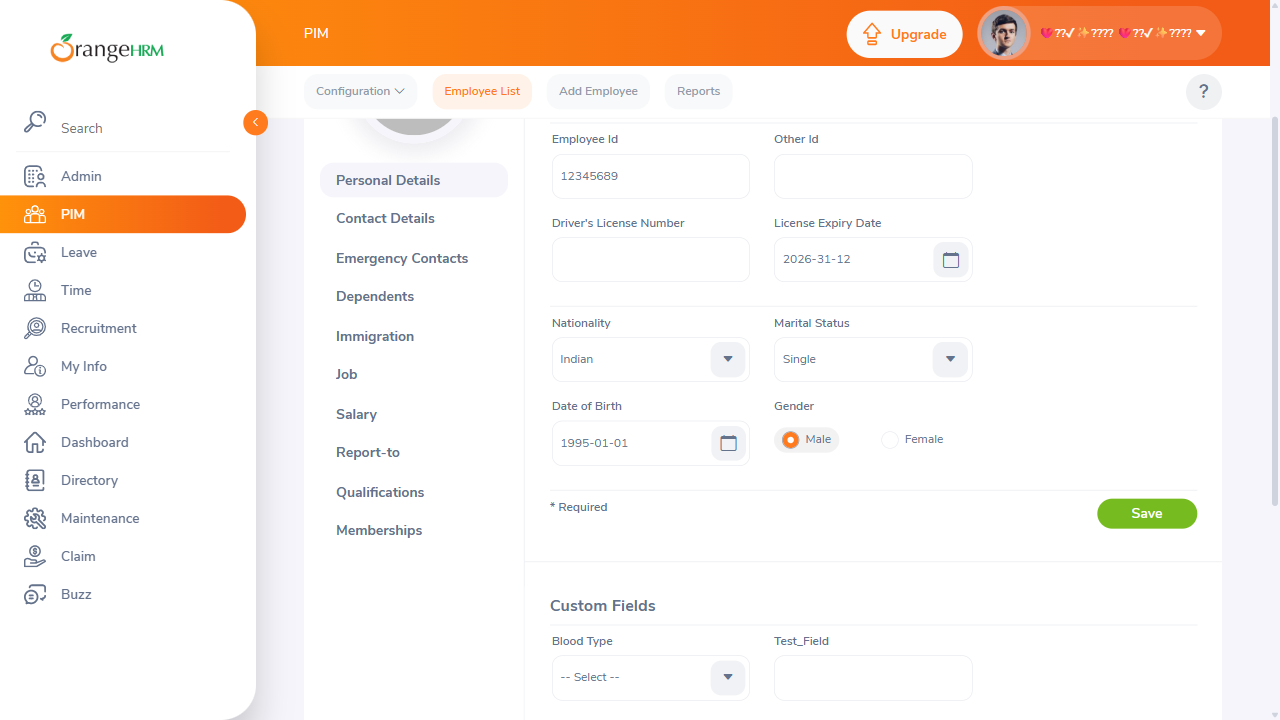
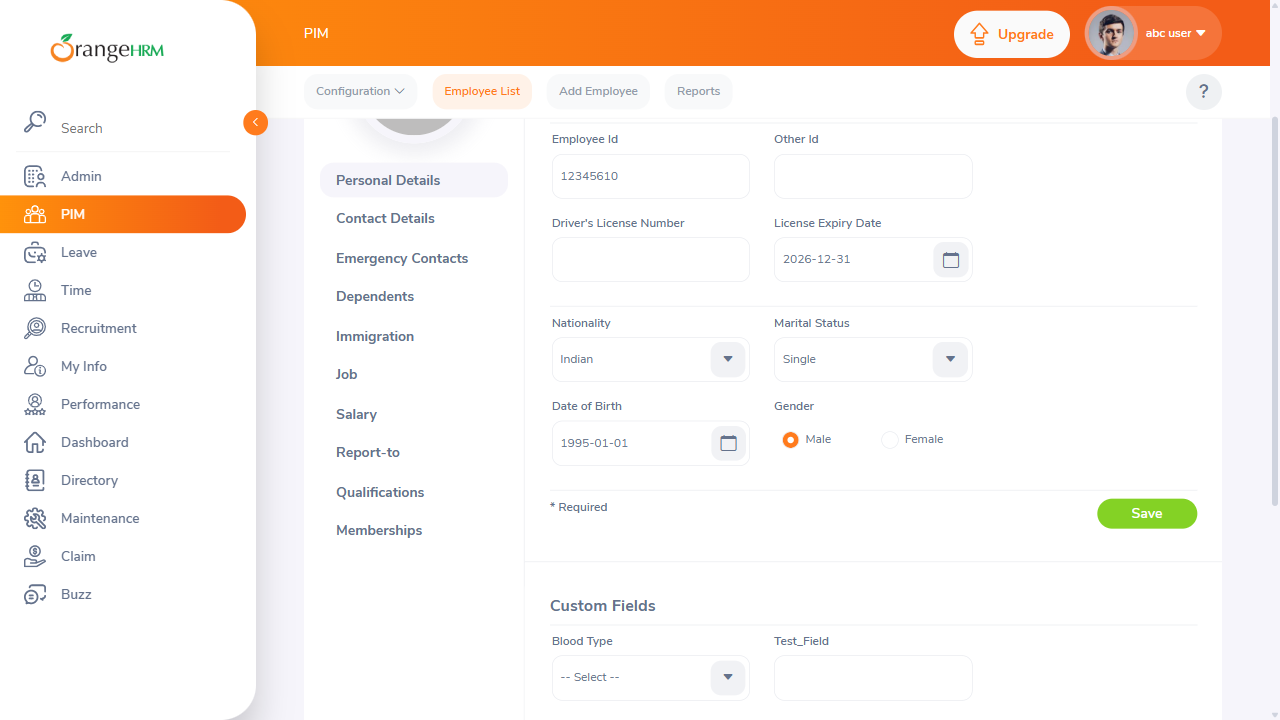
added login features

Changed region(s): [[0.6562, 0.0, 0.9375, 0.0917]]

diff --git a/src/pages/PIMPage.ts b/src/pages/PIMPage.ts
@@ -28,7 +28,7 @@ export class PIMPage {
         this.employeeFirstNameInput = this.page.locator("//input[@name='firstName']");
         this.employeeLastNameInput = this.page.locator("//input[@name='lastName']");
         this.employeeIdInput = this.page.locator("//label[text()='Employee Id']/..//following-sibling::div//input");
-        this.saveEmployeeButton = this.page.locator("//button[contains(@class,'button--secondary') and @type='submit']");
+        this.saveEmployeeButton = this.page.locator("(//button[contains(@class,'button--secondary') and @type='submit'])[1]");
         this.driverLicenseNumberInput = this.page.locator("//label[contains(text(),'License Number')]/..//following-sibling::div//input");
         this.licenseExpiryDateInput = this.page.locator("//label[contains(text(),'License Expiry Date')]/..//following-sibling::div//input");
         this.nationalityDropdown = this.page.locator("//label[text()='Nationality']/../..//div[@class='oxd-select-text-input']");
@@ -62,6 +62,7 @@ export class PIMPage {
 
     async clickSaveEmployee() {
         await this.saveEmployeeButton.click();
+        await this.page.waitForTimeout(5000);
     }
 
     async enterDriverLicenseNumber(licenseNumber: string) {
@@ -87,14 +88,9 @@ export class PIMPage {
     }
 
     async selectGender(gender: string) {
-        //this.genderRadioButtons = this.page.locator("//label[text()='Gender']/../following-sibling::div//input[@value='1']");
-
         const genderValue = gender.toLowerCase() === 'male' ? '1' : '2';
-
         console.log("Gender value",genderValue);
-
         await this.page.locator(`//label[text()='Gender']/../following-sibling::div//input[@value='${genderValue}']/..`).click();
-        //await this.genderRadioButtons.filter({ has: this.page.locator(`//label[text()='Gender']/../following-sibling::div//input[@value='${gender}']`) }).check();
     } 
     
     
@@ -131,7 +127,7 @@ export class PIMPage {
     async isEmployeeUpdated(licenseNumber: string): Promise<boolean> {
         // Implementation for checking if employee details are updated
         const updatedLicenseNumber = (await this.driverLicenseNumberInput.innerText()).trim();
-        await this.page.waitForTimeout(5000);
+        await this.page.waitForTimeout(15000);
         return updatedLicenseNumber === licenseNumber;
     }
 

diff --git a/README.md b/README.md
@@ -1,0 +1,12 @@
+# Playwright Cucumber TypeScript Framework
+
+## Tech Stack
+- Playwright
+- TypeScript
+- Cucumber BDD
+- Allure Reports
+
+## Installation
+
+```bash
+npm install
